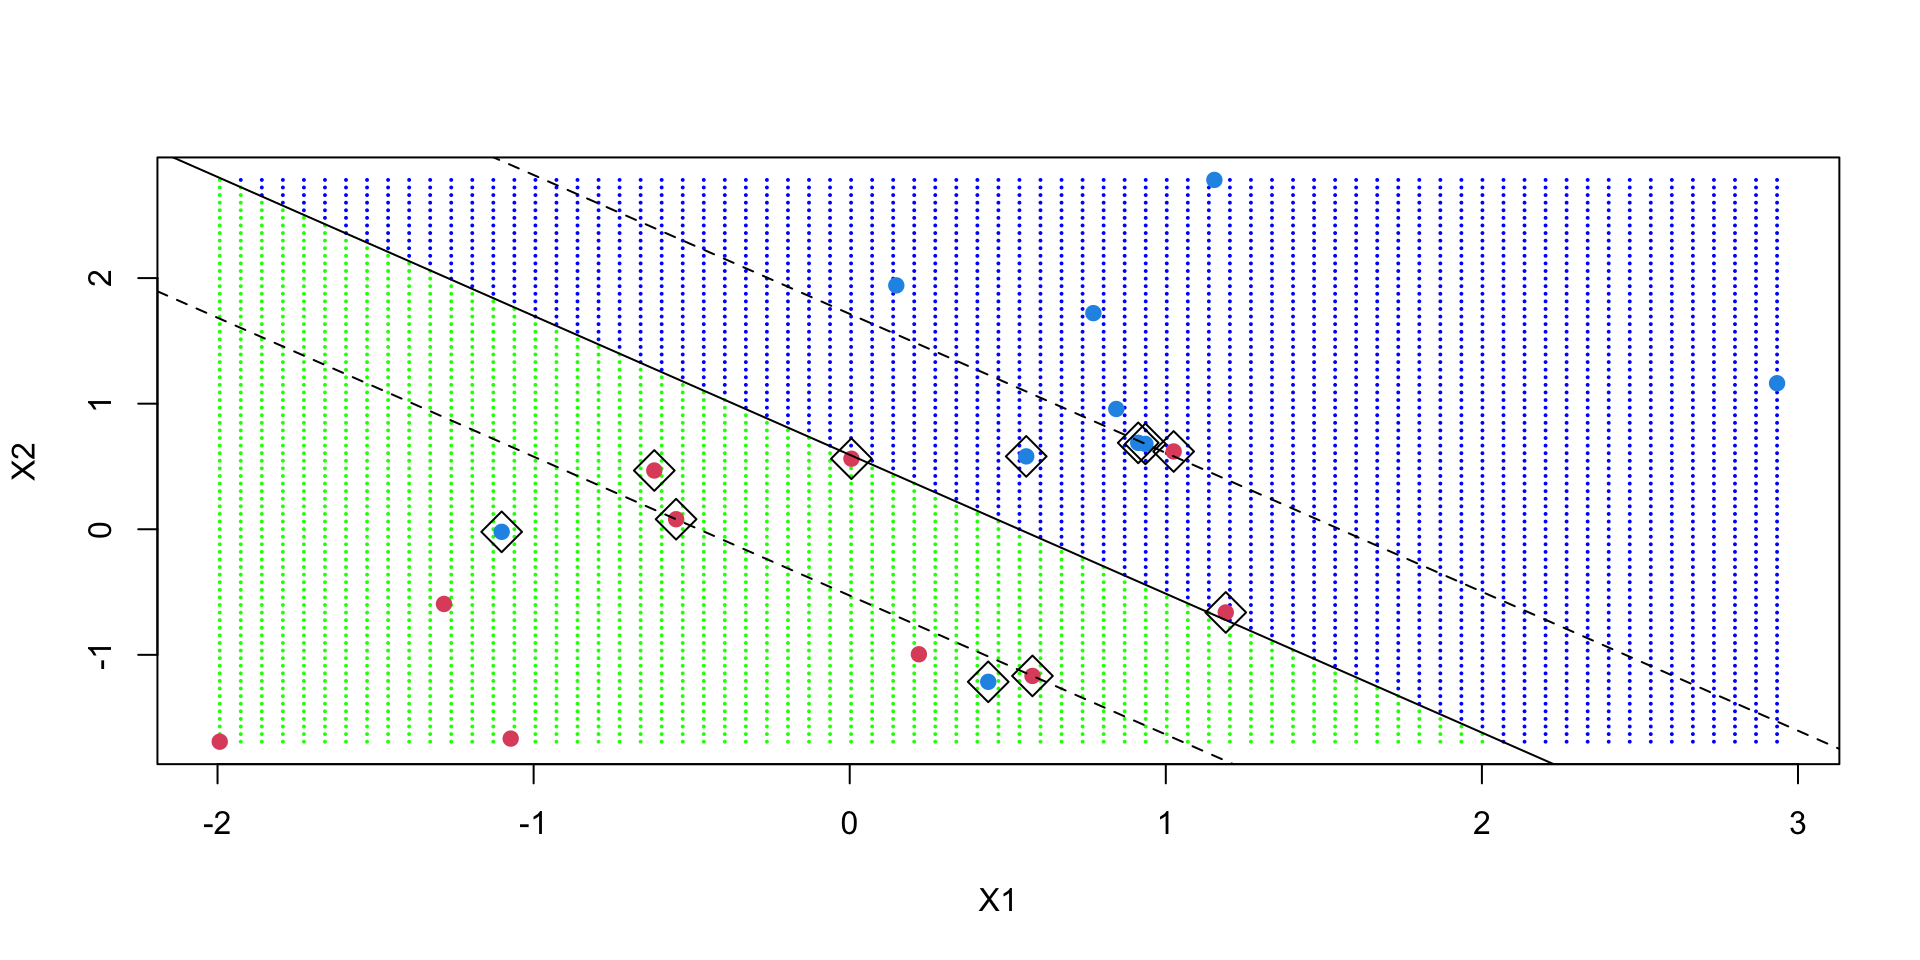
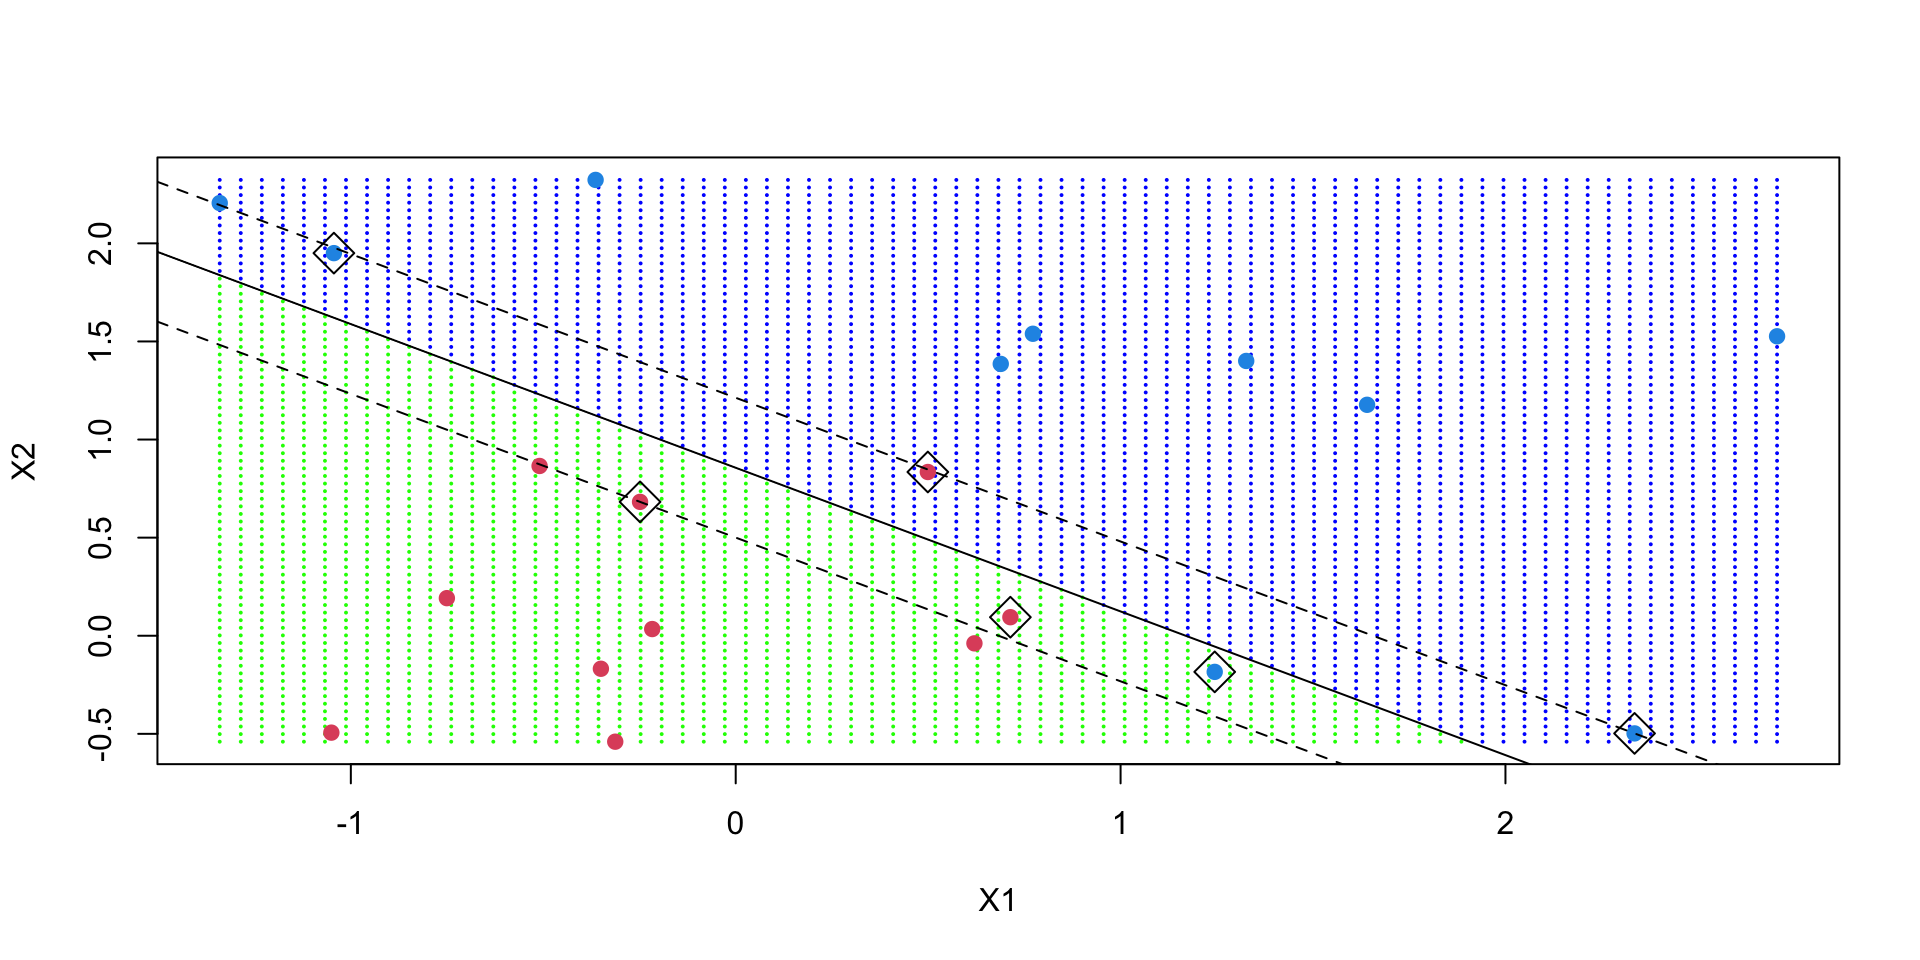
15

diff --git a/slides.html b/slides.html
@@ -504,23 +504,23 @@ Parameters:
  SVM-Kernel:  linear 
        cost:  10 
 
-Number of Support Vectors:  11</code></pre>
+Number of Support Vectors:  6</code></pre>
 </div>
 <div class="cell-output-display">
 <p><img data-src="slides_files/figure-revealjs/unnamed-chunk-1-2.png" width="960"></p>
 </div>
 <div class="cell-output cell-output-stdout">
-<pre><code>          X1        X2
-1  -1.993042 -1.691594
-2  -1.926463 -1.691594
-3  -1.859884 -1.691594
-4  -1.793305 -1.691594
-5  -1.726726 -1.691594
-6  -1.660147 -1.691594
-7  -1.593568 -1.691594
-8  -1.526989 -1.691594
-9  -1.460410 -1.691594
-10 -1.393831 -1.691594</code></pre>
+<pre><code>           X1         X2
+1  -1.3406379 -0.5400074
+2  -1.2859572 -0.5400074
+3  -1.2312766 -0.5400074
+4  -1.1765959 -0.5400074
+5  -1.1219153 -0.5400074
+6  -1.0672346 -0.5400074
+7  -1.0125540 -0.5400074
+8  -0.9578733 -0.5400074
+9  -0.9031927 -0.5400074
+10 -0.8485120 -0.5400074</code></pre>
 </div>
 <div class="cell-output-display">
 <p><img data-src="slides_files/figure-revealjs/unnamed-chunk-1-3.png" width="960"></p>
